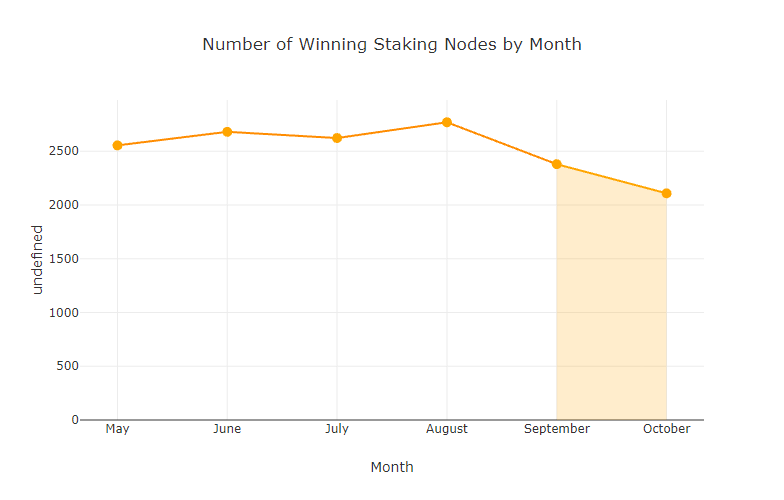
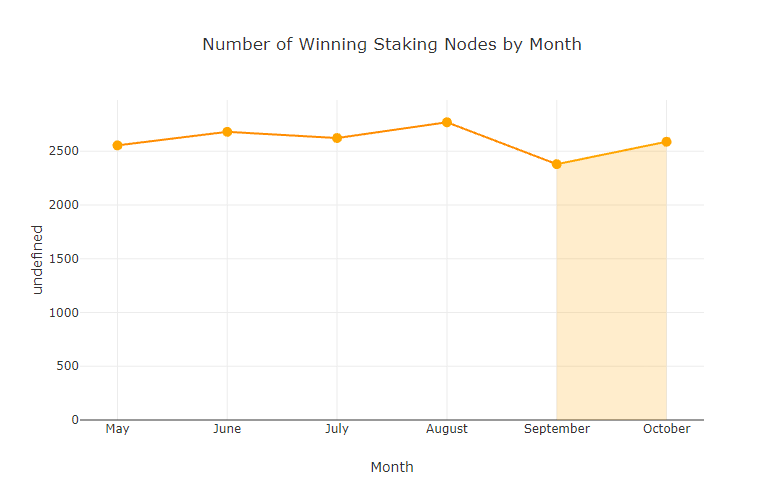
fix errors in metrics

Changed region(s): [[0.7041, 0.27, 0.8571, 0.39]]

diff --git a/content/foundation/posts/swarm-state-of-the-network-october-2024.md b/content/foundation/posts/swarm-state-of-the-network-october-2024.md
@@ -109,13 +109,13 @@ This metric counts the total number of unique full nodes that were reachable at 
 | July      | 20,898                     |
 | August    | 24,168                     |
 | September | 18,589                     |
-| October   | 17,450                     |
+| October   | 15,206                     |
 
 
 ![chart-Total-Reachable-Full-Nodes-Regardless-of-Active-Status](/uploads/chart-Total-Reachable-Full-Nodes-Regardless-of-Active-Status-October-2024.png)
 
 
-The total number of reachable full nodes decreased in October, dropping to 17,450 from September’s 18,589. This decline continues the trend of fluctuating reachable nodes, likely influenced by the changes in active node participation and network activity.
+The total number of reachable full nodes decreased in October, dropping to 15,206  from September’s 18,589. This decline continues the trend of fluctuating reachable nodes, likely influenced by the changes in active node participation and network activity.
 
 ## Total Winning Nodes by Month
 
@@ -128,11 +128,11 @@ This metric tracks the number of unique staking nodes that won the redistributio
 | July      | 2,622               |
 | August    | 2,769               |
 | September | 2,379               |
-| October   | 2,108               |
+| October   | 2,588               |
 
 ![chart-Number-of-Winning-Staking-Nodes-by-Month](/uploads/chart-Number-of-Winning-Staking-Nodes-by-Month-October-2024.png)
 
-The total number of winning nodes decreased further in October, falling to 2,108 from September’s 2,379.  
+The total number of winning nodes increased in October, rising to 2,588 from September’s 2,379.  
 
 ## Total Active Staking Nodes by Country
 
@@ -145,12 +145,12 @@ This section breaks down active staking nodes by country, providing insights int
 | July          | 8,539  | 1,828   | 2,395   | 1       | 83            | 25    |
 | August        | 5,406  | 886     | 1,157   | 1       | 40            | 16    |
 | September     | 3,440  | 655     | 1,503   | 3       | N/A           | 66    |
-| October       | 3,620  | 642     | 1,489   | 2       | N/A           | 81    |
+| October       | 4,819  | 621     | 1,776   | 10          | N/A           | 78    |
 
 ![Total Staking Nodes by Country.png](/uploads/Total-Active-Staking-Nodes-by-Country-October-2024.png)
 
-In October, the network saw a small increase in the number of active staking nodes from China, while other countries such as Germany and Finland saw very minor reductions in node counts. The United States continued to be absent from the top ranks, and countries like Spain and the Netherlands experienced increases in their participation, contributing to the "Other" category.
+In October, the network saw a significant increase in the number of active staking nodes from China, while Germany saw a minor reduction in node counts and Finland saw a moderate increase. The United States continued to be absent from the top ranks, and countries like Spain and the Netherlands experienced increases in their participation, contributing to the "Other" category.
 
 ## Conclusion
 
-In October 2024, the Swarm network exhibited both growth and contraction across various metrics. While rewards and average earnings per node showed signs of stability, the decrease in active staking nodes and reachable full nodes highlights the continued fluctuations in network participation. These trends suggest that the Swarm network’s reward distribution and economic mechanisms are functioning as intended, with nodes adjusting to shifting participation levels and rewards.
+In October 2024, the Swarm network exhibited growth in several key metrics. There was a moderate increase in the total numeb These trends suggest that the Swarm network’s reward distribution and economic mechanisms are functioning as intended, with nodes adjusting to shifting participation levels and rewards.
